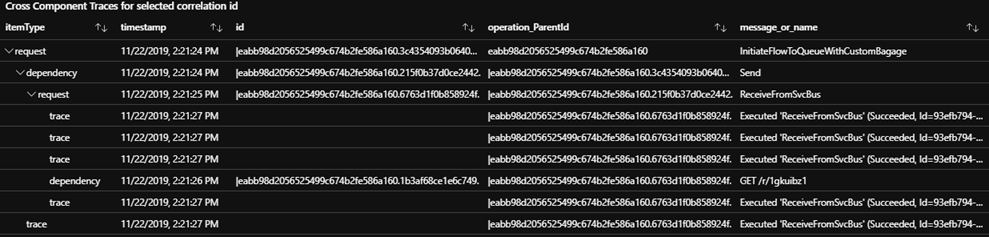
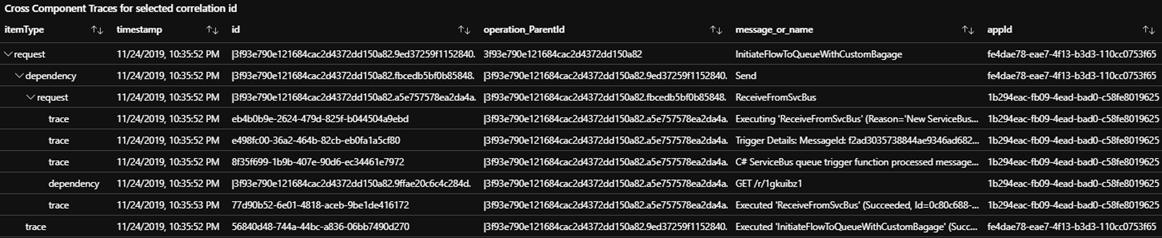
fix bug in trace visualization (now has unique id)

diff --git a/README.MD b/README.MD
@@ -353,12 +353,13 @@ let allApps = union app('{appInsightsA}').requests, app('{appInsightsB}').reques
               app('{appInsightsA}').traces, app('{appInsightsB}').traces,
               app('{appInsightsA}').customEvents, app('{appInsightsB}').customEvents;
 allApps 
-| extend MyCustomCorrId = tostring(customDimensions.MyCustomCorrId) 
-| where  MyCustomCorrId == "{corrid}"
-| extend message_or_name = strcat(message, name)
-| project-reorder timestamp, itemType, id, operation_ParentId, message_or_name, appId
-| project-away problemId, handledAt, assembly, method, outerType, outerMessage, outerAssembly, outerMethod, innermostType, innermostMessage, innermostAssembly, innermostMethod, client_City, client_StateOrProvince, client_CountryOrRegion, client_Browser, cloud_RoleName, cloud_RoleInstance, client_Model, client_OS, operation_SyntheticSource, session_Id, user_Id, user_AuthenticatedId, user_AccountId, application_Version, client_Type, message, name
-| order by timestamp asc
+  | extend MyCustomCorrId = tostring(customDimensions.MyCustomCorrId) 
+  | extend message_or_name = strcat(message, name)
+  | extend id = iif(id == '', tostring(new_guid()), id) // make sure id is unique (if not table will not be displayed correctly)
+  | where  MyCustomCorrId == "{corrid}"
+  | project-reorder timestamp, itemType, id, operation_ParentId, message_or_name, appId
+  | project-away problemId, handledAt, assembly, method, outerType, outerMessage, outerAssembly, outerMethod, innermostType, innermostMessage, innermostAssembly, innermostMethod, client_City, client_StateOrProvince, client_CountryOrRegion, client_Browser, cloud_RoleName, cloud_RoleInstance, client_Model, client_OS, operation_SyntheticSource, session_Id, user_Id, user_AuthenticatedId, user_AccountId, application_Version, client_Type, message, name
+  | order by timestamp asc;
 ~~~
 
 and configuring the workbook to visualize the table columns as follows:
@@ -390,8 +391,7 @@ let LogicAppsActionCompletedDiag =
   LogicAppsDiagsRaw
   | where OperationName == "Microsoft.Logic/workflows/workflowActionCompleted"
   | parse kind = regex trackedProperties_Correlation_Context_s with * "MyCustomCorrId=" MyCustomCorrId:string
-  // NOTE: id _needs_ to be unique for treeview to be displayed correctly
-  | extend id=strcat(resource_runId_s, Resource, OperationName) 
+  | extend id=strcat(resource_runId_s, Resource, OperationName)
   | project-rename operation_ParentId=trackedProperties_Request_Id_s
   | project-reorder  MyCustomCorrId, operation_ParentId, trackedProperties_Correlation_Context_s;
 let MyCustomCorrIdMappingToResourceRunId = 
@@ -402,7 +402,6 @@ let LogicAppsDiagsWithCustomCorrIdStamped =
   | project-reorder MyCustomCorrId, resource_runId_s, trackedProperties_Correlation_Context_s, operation_ParentId, trackedProperties_Request_Id_s;
 let AllLogicActionsWithFilledCorrelationIds =
   LogicAppsDiagsWithCustomCorrIdStamped
-  // NOTE: id _needs_ to be unique for treeview to be displayed correctly
   | extend id=strcat(resource_runId_s, Resource, OperationName), timestamp=startTime_t
   | project-reorder  MyCustomCorrId, operation_ParentId, resource_runId_s, trackedProperties_Correlation_Context_s;
 let fullTreeView =
@@ -415,6 +414,7 @@ let fullTreeView =
      | extend message_or_name = strcat(trim_start('Microsoft.Logic/workflows/workflow', OperationName), ' - ', Resource, ' ', error_message_s)
   )
   | where  MyCustomCorrId == "{corrid}"
+  | extend id = iif(id == '', tostring(new_guid()), id) // make sure id is unique (if not table will not be displayed correctly)
   | project-reorder timestamp, itemType, id, operation_ParentId, message_or_name, appId
   | project-away problemId, handledAt, assembly, method, outerType, outerMessage, outerAssembly, outerMethod, innermostType, innermostMessage, innermostAssembly, innermostMethod, client_City, client_StateOrProvince, client_CountryOrRegion, client_Browser, cloud_RoleName, cloud_RoleInstance, client_Model, client_OS, operation_SyntheticSource, session_Id, user_Id, user_AuthenticatedId, user_AccountId, application_Version, client_Type, message, name
   | order by timestamp asc;
